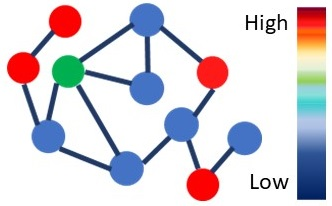
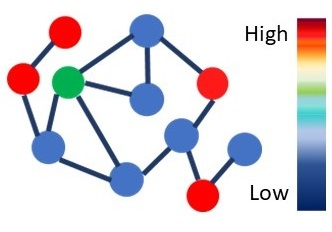
Updated

diff --git a/PerceptronXfmsFrontEnd/src/app/scan-view/scan-view.component.html b/PerceptronXfmsFrontEnd/src/app/scan-view/scan-view.component.html
@@ -12,7 +12,9 @@
 
   <div style="height:50px;font-size:1px;"></div>
 
-  <div style="display: flex;">
+      
+  <div style="display:flex;">
+    <div style="width:25%"></div>
   <mat-card  class="example-card" style="flex: 1 1 auto;">
     <mat-card-header>
       <img mat-card-avatar class="example-header-image" src="assets/images/ProtectionFactorShieldAvator.jpg">
@@ -24,11 +26,11 @@
       src="assets/images/ProtectionFactorMainImage.jpg">
     <!-- alt="Photo of a Shiba Inu" -->
     <mat-card-content>
-      <p style="margin: 0;text-align: justify; font-weight: bold;">
+      <p style="margin: 0;text-align: center; font-weight: bold;">
         Protection factor calculates the residual protection against the exposure of water.
       </p>
-      <mat-card-actions>
-        <button mat-button style="right: 20px;" (click)=ViewDetailedPF()>Results</button>
+      <mat-card-actions style="padding: 4px;">
+        <button mat-button class="Results-btn-pos" (click)=ViewDetailedPF()>Results</button>
   
       </mat-card-actions>
   
@@ -50,12 +52,12 @@
       src="assets/images/BetweennesCentralityMainImage.jpg">
     <!-- alt="Photo of a Shiba Inu" -->
     <mat-card-content>
-      <p style="margin: 0;text-align: justify; font-weight: bold;">
+      <p style="margin: 0;text-align: center; font-weight: bold;">
         Betweenness centrality determines the degree of connectivity of each residue-residue and residue-water
         interactions.
       </p>
       <mat-card-actions>
-        <button mat-button style="right: 20px;" (click)=ViewDetailedCentrality()>Results</button>
+        <button mat-button class="Results-btn-pos" (click)=ViewDetailedCentrality()>Results</button>
 
       </mat-card-actions>
 
@@ -63,7 +65,9 @@
 
     <div style="height:5px"></div>
   </mat-card>
+  <div style="width:25%"></div>
 </div>
+
 
  
 </div>

diff --git a/PerceptronXfmsFrontEnd/src/app/scan-view/scan-view.component.css b/PerceptronXfmsFrontEnd/src/app/scan-view/scan-view.component.css
@@ -56,3 +56,7 @@
   width: 100%;
   text-align:center;
 }
+
+.Results-btn-pos{
+  right: 105px;
+}
